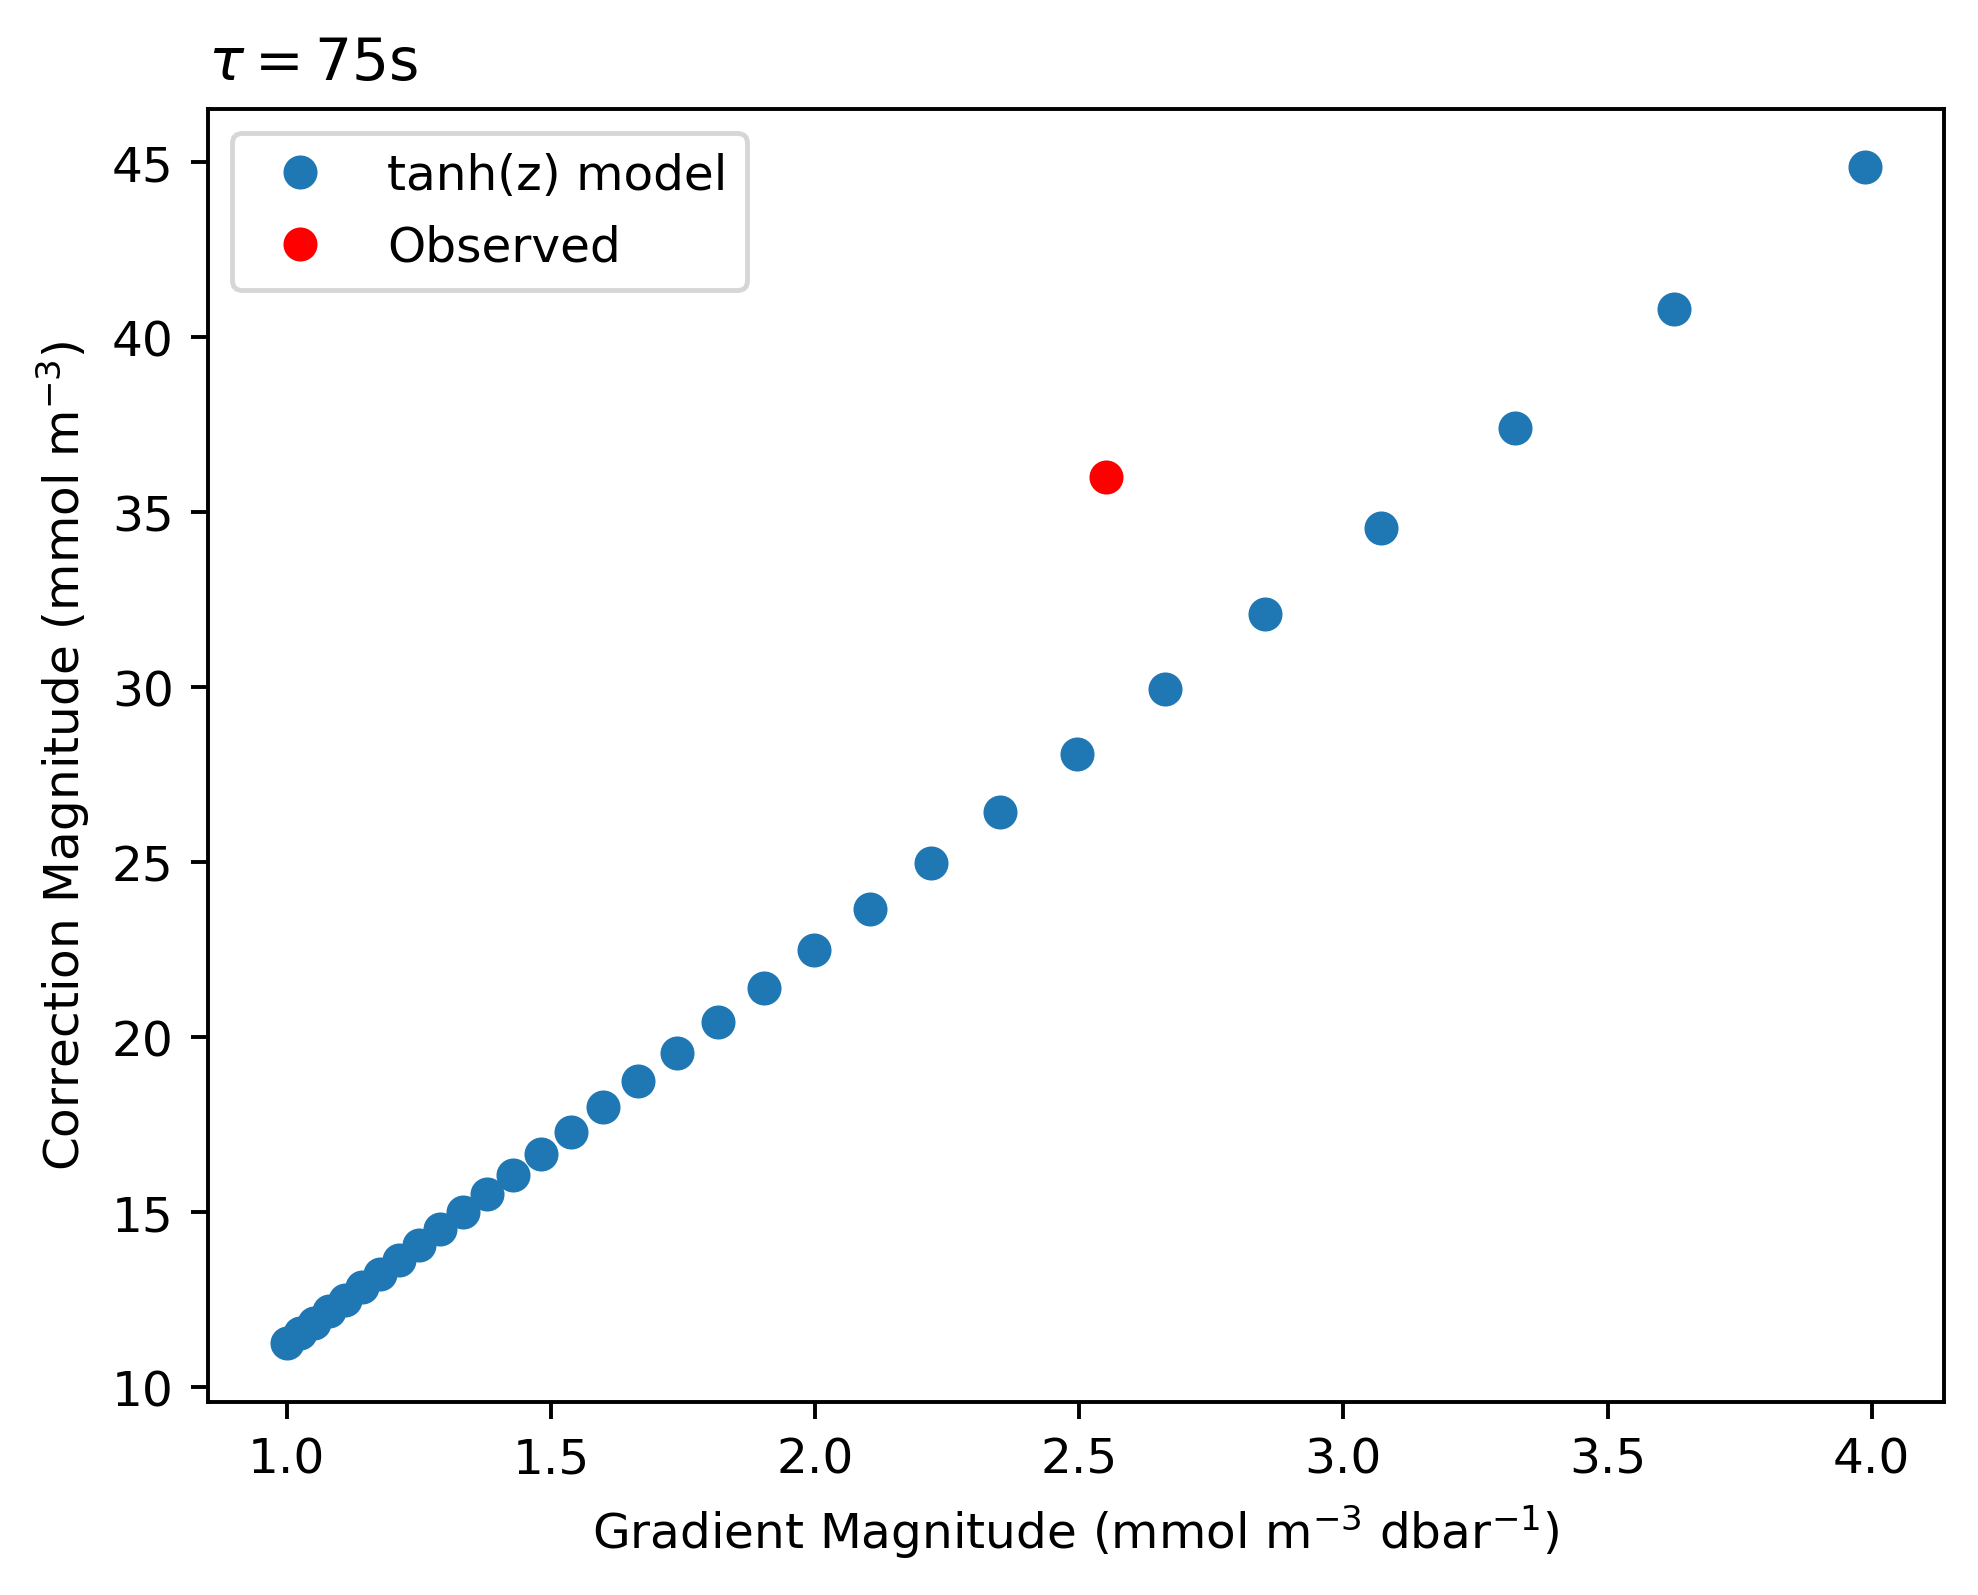
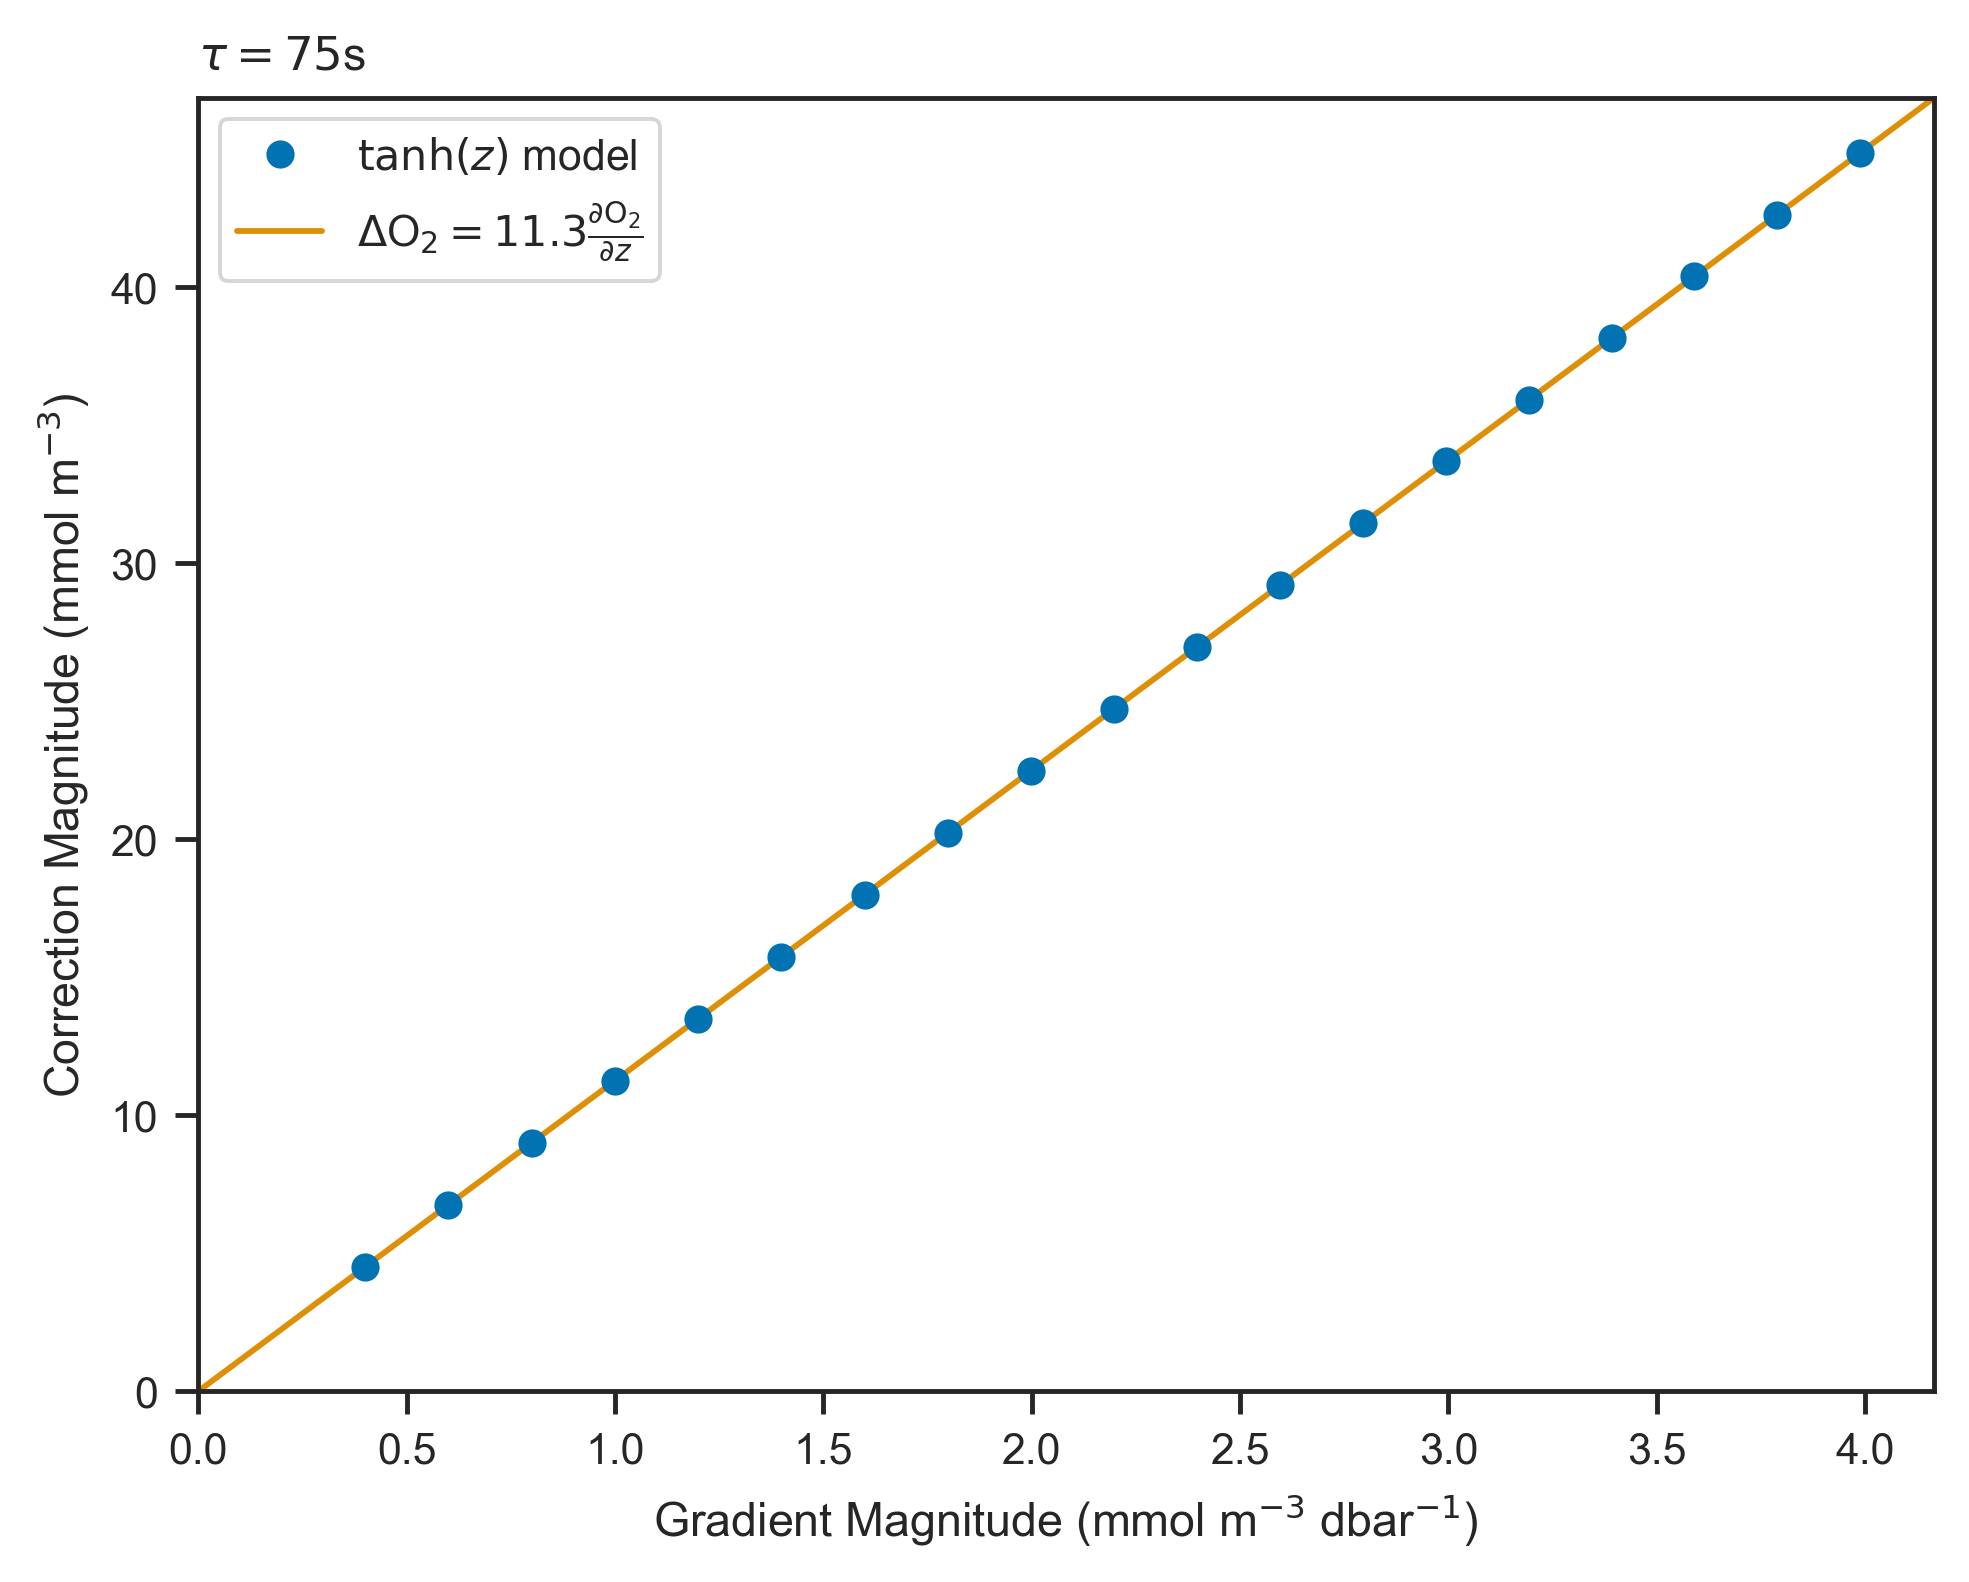
added filters to script, need to do butterworth

diff --git a/dev/calc_gomri_tau.m b/dev/calc_gomri_tau.m
@@ -3,6 +3,7 @@ addpath(genpath('../'))
 floats = {'f7939', 'f7940', 'f7941', 'f7942', 'f7943', 'f7944', 'f7945', 'f8081', 'f8082', 'f8083'};
 
 fprintf('-------------------------- RESULTS --------------------------\n\n')
+fprintf('------------------------- NO FILTER -------------------------\n\n')
 fprintf('flID\tN\tN_pt\tm_p\tsd_p\tN_rhot\tm_rho\tsd_rho\n')
 fprintf('--------------------------------------------------------------\n')
 
@@ -13,6 +14,61 @@ for ii=1:numel(floats)
     PDEN = real(sw_pden(S, T, P, 0) - 1000);
 
     pres_tau = calculate_tau(t, P, DOXY, 'tlim', [40,100], 'tres', 0.5);
+
+    fprintf('%s\t', floatID)
+    fprintf('%d\t', size(T, 1))
+    fprintf('%d\t', numel(pres_tau))
+    fprintf('%3.1f\t%3.3f\t', median(pres_tau), std(pres_tau))
+
+    pden_tau = calculate_tau(t, PDEN, DOXY, 'tlim', [40,100], 'tres', 0.5, 'zlim', [22,26.5], 'zres', 0.1);
+
+    fprintf('%d\t', numel(pden_tau))
+    fprintf('%3.1f\t%3.3f\n', median(pden_tau), std(pden_tau))
+    
+end
+
+fprintf('------------------------ RUNNING MEAN ------------------------\n\n')
+fprintf('flID\tN\tN_pt\tm_p\tsd_p\tN_rhot\tm_rho\tsd_rho\n')
+fprintf('--------------------------------------------------------------\n')
+
+for ii=1:numel(floats)
+
+    floatID = floats{ii};
+    [S, T, P, DOXY, t] = load_float_data(floatID);
+    PDEN = real(sw_pden(S, T, P, 0) - 1000);
+
+    f_DOXY = movmean(DOXY, 7);
+
+    pres_tau = calculate_tau(t, P, DOXY, 'tlim', [40,100], 'tres', 0.5);
+
+    fprintf('%s\t', floatID)
+    fprintf('%d\t', size(T, 1))
+    fprintf('%d\t', numel(pres_tau))
+    fprintf('%3.1f\t%3.3f\t', median(pres_tau), std(pres_tau))
+
+    pden_tau = calculate_tau(t, PDEN, DOXY, 'tlim', [40,100], 'tres', 0.5, 'zlim', [22,26.5], 'zres', 0.1);
+
+    fprintf('%d\t', numel(pden_tau))
+    fprintf('%3.1f\t%3.3f\n', median(pden_tau), std(pden_tau))
+    
+end
+
+fprintf('------------------------- BUTTERWORTH ------------------------\n\n')
+fprintf('flID\tN\tN_pt\tm_p\tsd_p\tN_rhot\tm_rho\tsd_rho\n')
+fprintf('--------------------------------------------------------------\n')
+
+% [b,a] = butter(n,Wn);
+
+for ii=1:numel(floats)
+
+    floatID = floats{ii};
+    [S, T, P, DOXY, t] = load_float_data(floatID);
+
+    % f_DOXY = filter(b,a,DOXY);
+
+    PDEN = real(sw_pden(S, T, P, 0) - 1000);
+
+    pres_tau = calculate_tau(t, P, f_DOXY, 'tlim', [40,100], 'tres', 0.5);
 
     fprintf('%s\t', floatID)
     fprintf('%d\t', size(T, 1))

diff --git a/dev/plot_gradient_corr_analysis.py b/dev/plot_gradient_corr_analysis.py
@@ -8,14 +8,34 @@ import pandas as pd
 import matplotlib.pyplot as plt
 import seaborn as sns
 
+# set plot properties
+sns.set(context='paper', style='ticks', palette='colorblind')
+
+# load data
 fn = Path('./gradient_correction_data.csv')
 df = pd.read_csv(fn)
+
+# linear fit on data
+x = df.max_gradient.values
+y = df.correction_delta.values
+x = x[:,np.newaxis]
+a, _, _, _ = np.linalg.lstsq(x, y, rcond=None)
+a = a[0]
 
 obs = [2.55, 36]
 
 fig, ax = plt.subplots()
-ax.plot(df.max_gradient, df.correction_delta, 'o', label='tanh(z) model')
-ax.plot(obs[0], obs[1], 'o', color='r', label='Observed')
+ax.plot(df.max_gradient, df.correction_delta, 'o', label='$\\tanh(z)$ model',zorder=2)
+# ax.plot(obs[0], obs[1], 'o', label='Observed')
+
+ax.set_xlim(left=0)
+ax.set_ylim(bottom=0)
+
+xlim = ax.get_xlim()
+ax.plot(xlim, a*np.array(xlim), label='$\Delta$O$_2 = %.1f\\frac{\partial \mathrm{O}_2}{\partial z}$' % a, zorder=1)
+
+ax.set_xlim(xlim)
+
 ax.set_title('$\\tau = 75$s', loc='left')
 ax.set_xlabel('Gradient Magnitude (mmol m$^{-3}$ dbar$^{-1}$)')
 ax.set_ylabel('Correction Magnitude (mmol m$^{-3}$)')
